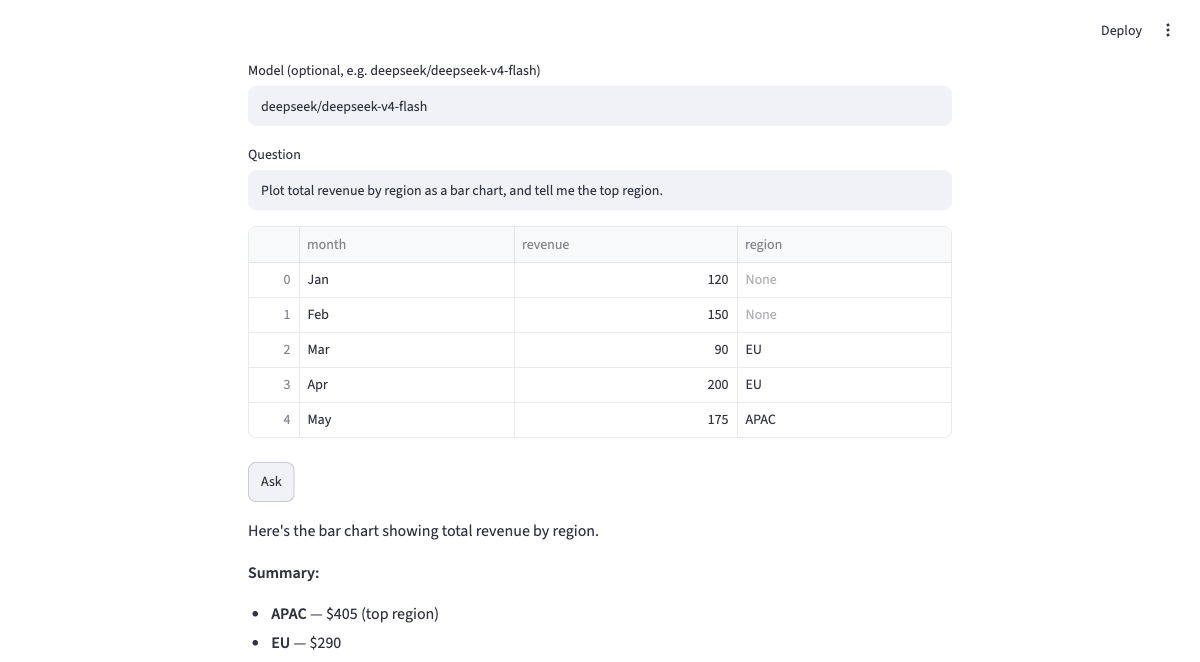
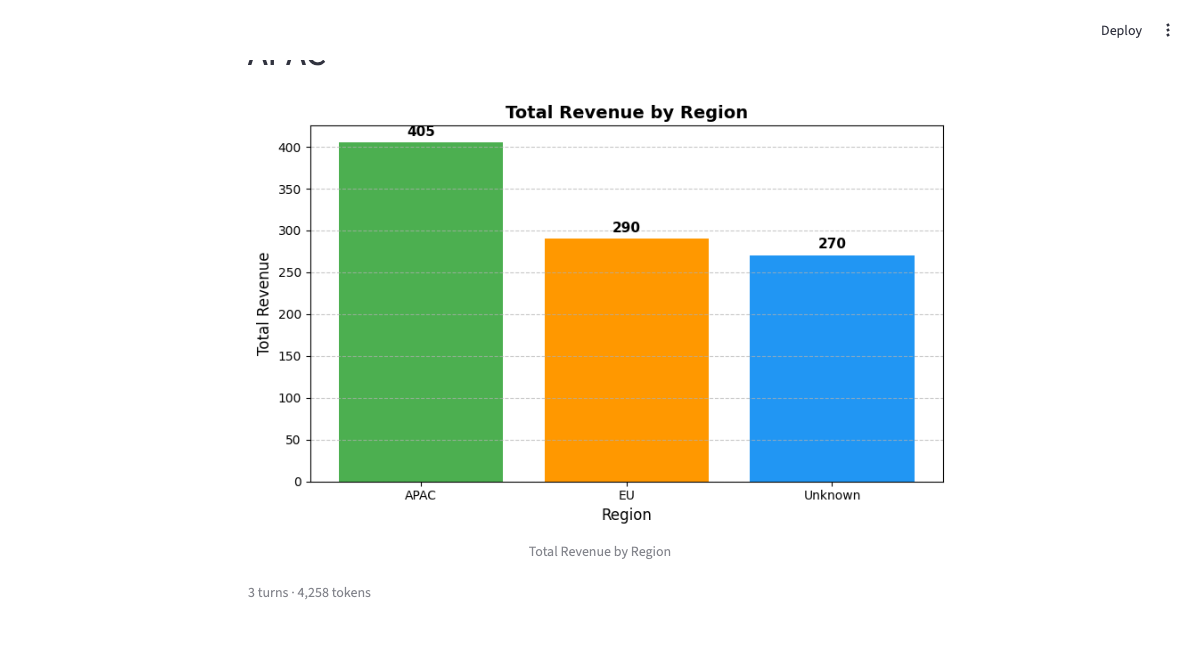
Make eval results human-readable; fix demo screenshot to show the chart
Readability (the JSON wasn't skimmable):
- data_harness.eval.summary: write_summary() renders all result JSONs into a
  readable evals/results/SUMMARY.md (one leaderboard table per suite) +
  leaderboard_markdown() helper; `python -m data_harness.eval.summary`
- eval_demo/eval_wtq now also write a per-run .md leaderboard and refresh
  SUMMARY.md; evals/summarize.py convenience wrapper
- committed SUMMARY.md for the existing results; rewrote evals/results/README.md
  to point at it
- README + eval guide link to SUMMARY.md

Demo screenshot:
- re-captured docs/assets/streamlit-demo.png to actually show the rendered bar
  chart (the prior full-page capture stopped before the chart laid out)

Tests for leaderboard_markdown + write_summary. 544 offline tests pass.

diff --git a/data_harness/eval/summary.py b/data_harness/eval/summary.py
@@ -1,0 +1,80 @@
+"""Render committed JSON eval results into a human-readable ``SUMMARY.md``.
+
+The per-run JSON (from ``EvalReport.to_dict``) is machine-readable but hard to
+skim. This turns a directory of result JSONs into one Markdown file of
+leaderboard tables — so anyone browsing the repo sees the numbers immediately.
+
+    python -m data_harness.eval.summary        # regenerate evals/results/SUMMARY.md
+"""
+
+from __future__ import annotations
+
+import json
+from pathlib import Path
+
+
+def leaderboard_markdown(report: dict) -> str:
+    """A Markdown accuracy/turns/tokens/cost table from a ``to_dict`` report."""
+    lines = [
+        "| model | accuracy | avg turns | tokens | cost ($) |",
+        "|---|---|---|---|---|",
+    ]
+    models = report.get("models", {})
+    for model, entry in sorted(
+        models.items(), key=lambda kv: -kv[1].get("accuracy", 0)
+    ):
+        cost = entry.get("cost_usd")
+        cost_str = f"{cost:.4f}" if isinstance(cost, (int, float)) else "n/a"
+        lines.append(
+            f"| {model} | {entry.get('accuracy', 0):.0%} | "
+            f"{entry.get('avg_turns', 0):.1f} | {entry.get('tokens', 0):,} | "
+            f"{cost_str} |"
+        )
+    return "\n".join(lines)
+
+
+def write_summary(results_dir: str | Path = "evals/results") -> Path:
+    """Regenerate ``<results_dir>/SUMMARY.md`` from all result JSONs there."""
+    directory = Path(results_dir)
+    files = sorted(directory.glob("*.json"), reverse=True)  # newest first
+
+    out = [
+        "# Evaluation results",
+        "",
+        "Human-readable leaderboards (newest first). Regenerate with "
+        "`python -m data_harness.eval.summary`.",
+        "",
+        "What the suites mean: **hard / large-data** validate the *design* "
+        "(joins, multi-step, stateful, 100k-row handle work) and tend to "
+        "saturate; **messy** and **WikiTableQuestions** are where models "
+        "actually diverge.",
+        "",
+    ]
+    for path in files:
+        data = json.loads(path.read_text())
+        report = data.get("report", {})
+        suite = data.get("suite") or data.get("benchmark") or path.stem
+        when = (data.get("generated_at") or "")[:10]
+        out.append(f"## {suite} · {when}")
+        out.append(
+            f"_{report.get('n_runs', '?')} runs · overall accuracy "
+            f"{report.get('accuracy', 0):.0%}_"
+        )
+        out.append("")
+        out.append(leaderboard_markdown(report))
+        out.append("")
+        out.append(f"<sub>source: `{path.name}`</sub>")
+        out.append("")
+
+    summary = directory / "SUMMARY.md"
+    summary.write_text("\n".join(out))
+    return summary
+
+
+def main() -> None:
+    path = write_summary()
+    print(f"Wrote {path}")
+
+
+if __name__ == "__main__":
+    main()

diff --git a/tests/test_eval.py b/tests/test_eval.py
@@ -264,6 +264,42 @@ def test_large_data_suite_well_formed():
     assert "snapshot_trap" in {c.category for c in cases}
 
 
+def test_leaderboard_markdown_and_summary(tmp_path):
+    import json
+
+    from data_harness.eval import leaderboard_markdown, write_summary
+
+    report = {
+        "n_runs": 2,
+        "accuracy": 0.75,
+        "models": {
+            "m1": {
+                "accuracy": 1.0,
+                "avg_turns": 2.0,
+                "tokens": 1000,
+                "cost_usd": 0.001,
+            },
+            "m2": {"accuracy": 0.5, "avg_turns": 3.0, "tokens": 2000},  # no cost
+        },
+    }
+    md = leaderboard_markdown(report)
+    assert "| model | accuracy" in md and "100%" in md
+    assert md.index("m1") < md.index("m2")  # higher accuracy sorted first
+    assert "0.0010" in md and "n/a" in md  # cost shown / missing
+
+    results = tmp_path / "results"
+    results.mkdir()
+    (results / "hard_20260101t000000.json").write_text(
+        json.dumps(
+            {"suite": "hard", "generated_at": "2026-01-01T00:00:00Z", "report": report}
+        )
+    )
+    path = write_summary(results)
+    text = path.read_text()
+    assert path.name == "SUMMARY.md"
+    assert "hard" in text and "m1" in text and "100%" in text
+
+
 def test_messy_suite_well_formed():
     from data_harness.eval import messy_suite
 

diff --git a/evals/summarize.py b/evals/summarize.py
@@ -1,0 +1,11 @@
+"""Regenerate evals/results/SUMMARY.md from the committed JSON results.
+
+    python evals/summarize.py
+
+(Thin wrapper over ``data_harness.eval.summary``.)
+"""
+
+from data_harness.eval.summary import main
+
+if __name__ == "__main__":
+    main()

diff --git a/examples/eval_demo.py b/examples/eval_demo.py
@@ -29,6 +29,7 @@ from data_harness.eval import (
     hard_suite,
     large_data_suite,
     messy_suite,
+    write_summary,
 )
 
 # Recent, cheap, capable models across diverse providers. (Dropped gpt-4o-mini —
@@ -85,7 +86,9 @@ def main() -> None:
             default=str,
         )
     )
-    print(f"\nWrote tracked report → {out}")
+    out.with_suffix(".md").write_text(report.to_markdown(prices))
+    write_summary(out.parent)
+    print(f"\nWrote tracked report → {out} (+ .md, refreshed SUMMARY.md)")
 
 
 if __name__ == "__main__":

diff --git a/examples/eval_wtq.py b/examples/eval_wtq.py
@@ -23,6 +23,7 @@ from data_harness.eval import (
     evaluate_matrix,
     fetch_openrouter_prices,
     load_wikitablequestions,
+    write_summary,
 )
 
 DEFAULT_MODELS = [
@@ -70,7 +71,9 @@ def main() -> None:
         "report": report.to_dict(prices),
     }
     Path(out).write_text(json.dumps(payload, indent=2, default=str))
-    print(f"\nWrote tracked report → {out}")
+    Path(out).with_suffix(".md").write_text(report.to_markdown(prices))
+    write_summary(Path(out).parent)
+    print(f"\nWrote tracked report → {out} (+ .md, refreshed SUMMARY.md)")
 
 
 if __name__ == "__main__":

diff --git a/data_harness/eval/__init__.py b/data_harness/eval/__init__.py
@@ -30,6 +30,7 @@ from data_harness.eval.suites import (
     messy_suite,
     wtq_row_to_case,
 )
+from data_harness.eval.summary import leaderboard_markdown, write_summary
 
 __all__ = [
     "CaseResult",
@@ -53,8 +54,10 @@ __all__ = [
     "exact",
     "extract_numbers",
     "fetch_openrouter_prices",
+    "leaderboard_markdown",
     "load_wikitablequestions",
     "numeric",
     "refuses",
     "wtq_row_to_case",
+    "write_summary",
 ]

diff --git a/evals/results/SUMMARY.md b/evals/results/SUMMARY.md
@@ -1,0 +1,56 @@
+# Evaluation results
+
+Human-readable leaderboards (newest first). Regenerate with `python -m data_harness.eval.summary`.
+
+What the suites mean: **hard / large-data** validate the *design* (joins, multi-step, stateful, 100k-row handle work) and tend to saturate; **messy** and **WikiTableQuestions** are where models actually diverge.
+
+## wikitablequestions · 2026-06-25
+_125 runs · overall accuracy 81%_
+
+| model | accuracy | avg turns | tokens | cost ($) |
+|---|---|---|---|---|
+| deepseek/deepseek-v4-flash | 96% | 4.5 | 228,476 | 0.0222 |
+| qwen/qwen3.5-flash-02-23 | 88% | 6.5 | 464,862 | 0.0373 |
+| openai/gpt-5-nano | 88% | 3.0 | 211,920 | 0.0400 |
+| z-ai/glm-4.7-flash | 76% | 5.8 | 279,328 | 0.0247 |
+| google/gemini-2.5-flash-lite | 56% | 3.2 | 166,521 | 0.0224 |
+
+<sub>source: `wtq_20260625t215206.json`</sub>
+
+## messy · 2026-06-25
+_20 runs · overall accuracy 90%_
+
+| model | accuracy | avg turns | tokens | cost ($) |
+|---|---|---|---|---|
+| deepseek/deepseek-v4-flash | 100% | 6.2 | 60,797 | 0.0060 |
+| qwen/qwen3.5-flash-02-23 | 100% | 6.5 | 86,386 | 0.0068 |
+| openai/gpt-5-nano | 100% | 2.8 | 28,951 | 0.0064 |
+| google/gemini-2.5-flash-lite | 75% | 3.0 | 14,769 | 0.0020 |
+| z-ai/glm-4.7-flash | 75% | 6.5 | 61,758 | 0.0051 |
+
+<sub>source: `messy_20260625t195251.json`</sub>
+
+## large · 2026-06-25
+_25 runs · overall accuracy 100%_
+
+| model | accuracy | avg turns | tokens | cost ($) |
+|---|---|---|---|---|
+| deepseek/deepseek-v4-flash | 100% | 2.6 | 16,383 | 0.0016 |
+| qwen/qwen3.5-flash-02-23 | 100% | 3.6 | 26,883 | 0.0024 |
+| openai/gpt-5-nano | 100% | 2.0 | 13,921 | 0.0026 |
+| google/gemini-2.5-flash-lite | 100% | 3.6 | 17,492 | 0.0026 |
+| z-ai/glm-4.7-flash | 100% | 3.8 | 22,804 | 0.0021 |
+
+<sub>source: `large_20260625t085451.json`</sub>
+
+## hard · 2026-06-25
+_44 runs · overall accuracy 100%_
+
+| model | accuracy | avg turns | tokens | cost ($) |
+|---|---|---|---|---|
+| deepseek/deepseek-v4-flash | 100% | 3.4 | 73,053 | 0.0071 |
+| deepseek/deepseek-v4-pro | 100% | 2.5 | 52,463 | 0.0251 |
+| qwen/qwen3.5-flash-02-23 | 100% | 3.9 | 92,131 | 0.0075 |
+| anthropic/claude-haiku-4.5 | 100% | 3.1 | 81,868 | 0.1020 |
+
+<sub>source: `hard_20260625t081400.json`</sub>

diff --git a/evals/results/README.md b/evals/results/README.md
@@ -1,21 +1,25 @@
 # Evaluation results
 
-Committed JSON reports from eval runs, so the metric is **tracked over time** and
-diffable in git (the per-run JSONL logs and chart artefacts stay in the
-gitignored `runs/`).
+**Start here: [`SUMMARY.md`](SUMMARY.md)** — a readable leaderboard table per
+suite (accuracy, turns, tokens, cost), newest first.
 
-Each file is written by an example runner (`examples/eval_demo.py`,
-`examples/eval_wtq.py`) and has the shape:
+Each run also writes a pair of files:
 
-```json
-{
-  "suite": "hard",
-  "models": ["deepseek/deepseek-v4-flash", "..."],
-  "generated_at": "2026-06-25T...Z",
-  "report": { "n_runs": ..., "accuracy": ..., "models": {...}, "by_category": {...}, "results": [...] }
-}
+- `<suite>_<timestamp>.md` — the full leaderboard for that run (human-readable).
+- `<suite>_<timestamp>.json` — the same data machine-readable
+  (`EvalReport.to_dict`: accuracy, per-model & per-category, cost, every case),
+  for diffing/tracking over time.
+
+These are produced by the example runners and committed so quality is tracked in
+git (per-run JSONL logs and chart artefacts stay in the gitignored `runs/`):
+
+```bash
+uv run python examples/eval_demo.py --suite messy   # bespoke / hard / large / messy
+uv run python examples/eval_wtq.py --limit 50        # public WikiTableQuestions
+python evals/summarize.py                            # rebuild SUMMARY.md
 ```
 
-`report` is `EvalReport.to_dict(prices)`. Commit a file here to record a run;
-compare across commits to track quality, cost, and turns as models/prompts change.
-File naming: `<suite>_<YYYYMMDDtHHMMSS>.json`.
+How to read it: the **hard** and **large-data** suites validate the *design*
+(joins, multi-step, stateful multi-turn, 100k-row handle work) and tend to
+saturate near 100% across capable models. **messy** (real-world cleaning) and
+**WikiTableQuestions** are where models actually diverge.

diff --git a/docs/guide/evaluation.md b/docs/guide/evaluation.md
@@ -136,9 +136,14 @@ runs are diffable in git (per-run JSONL logs and charts stay in gitignored
 `runs/`):
 
 ```bash
-uv run python examples/eval_demo.py --suite hard      # → evals/results/hard_<ts>.json
-uv run python examples/eval_wtq.py --limit 50         # → evals/results/wtq_<ts>.json
+uv run python examples/eval_demo.py --suite hard   # → evals/results/hard_<ts>.{json,md}
+uv run python examples/eval_wtq.py --limit 50      # → evals/results/wtq_<ts>.{json,md}
 ```
+
+Each run writes a machine-readable `.json` **and** a human-readable `.md`
+leaderboard, and refreshes [`evals/results/SUMMARY.md`](https://github.com/maxkskhor/data-harness/blob/main/evals/results/SUMMARY.md)
+— one readable table per suite, so you can skim the numbers without parsing JSON.
+Regenerate it any time with `python -m data_harness.eval.summary`.
 
 Commit the JSON to record a run; a live, key-gated smoke test
 (`tests/smoke_tests.py -m live`) runs small slices end-to-end, so the benchmark

diff --git a/README.md b/README.md
@@ -162,6 +162,8 @@ print(report.to_markdown(fetch_openrouter_prices(models)))  # accuracy / turns /
 - **Graders** — `numeric`, `contains`, `exact`, `dataframe_equals`, `chart_produced`, `refuses`, `all_of`/`any_of`.
 - **Reporting** — leaderboards with per-model **cost**, per-category breakdowns, and `to_dict()`/`to_json()` for results tracked in `evals/results/`.
 
+Results are committed as readable leaderboards — see [`evals/results/SUMMARY.md`](evals/results/SUMMARY.md) (a table per suite: accuracy, turns, tokens, cost).
+
 What the runs show: the structured/large/stateful suites **saturate at ~100% across recent models** — i.e. the *design* is robust (even small, cheap models handle 100k-row data via the handle for ~$0.002 and pass the snapshot trap). Model *differentiation* shows up on messy real-world data — WikiTableQuestions spreads recent models **64%→96%**. See the [Evaluation guide](https://maxkskhor.github.io/data-harness/guide/evaluation/).
 
 ---

diff --git a/CHANGELOG.md b/CHANGELOG.md
@@ -3,6 +3,7 @@
 ### 0.12.0
 - **CLI:** a console command installed as **`dh`** (short) and `data-harness` — `dh "question" data.csv` (multiple files, or pipe CSV via stdin), with `--model`, `--no-sql`, `--json`, `--run-dir`
 - **Streamlit demo app** (`examples/streamlit_app.py`, `[demo]` extra): upload a CSV, ask, see the answer + structured value + charts inline (charts passed as bytes so they always render)
+- **Readable eval results:** each run now writes a human-readable `.md` leaderboard alongside the `.json`, and a committed `evals/results/SUMMARY.md` aggregates all results into one table per suite (`data_harness.eval.write_summary` / `python -m data_harness.eval.summary`)
 
 ### 0.11.0
 - **Messy-data eval suite** (`messy_suite()`): real-world cleaning — amounts as strings with `$`/separators, dates in several formats, inconsistent country labels, missing values — the kind of friction that actually differentiates models. Ground truth computed in-suite by a reference cleaner. `eval_demo --suite messy`.